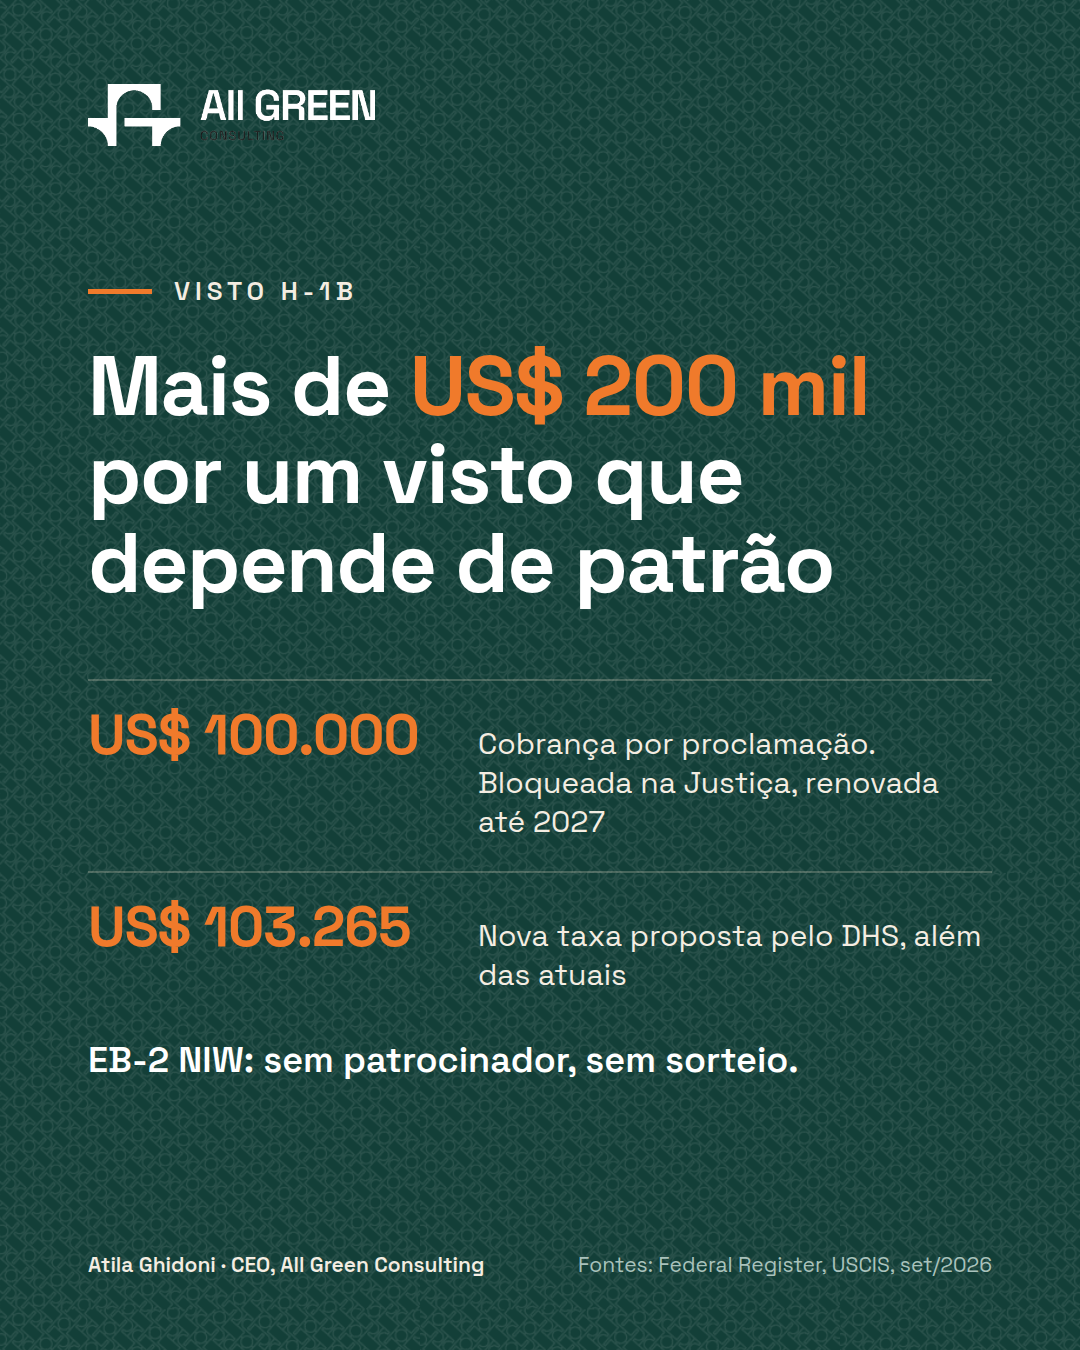
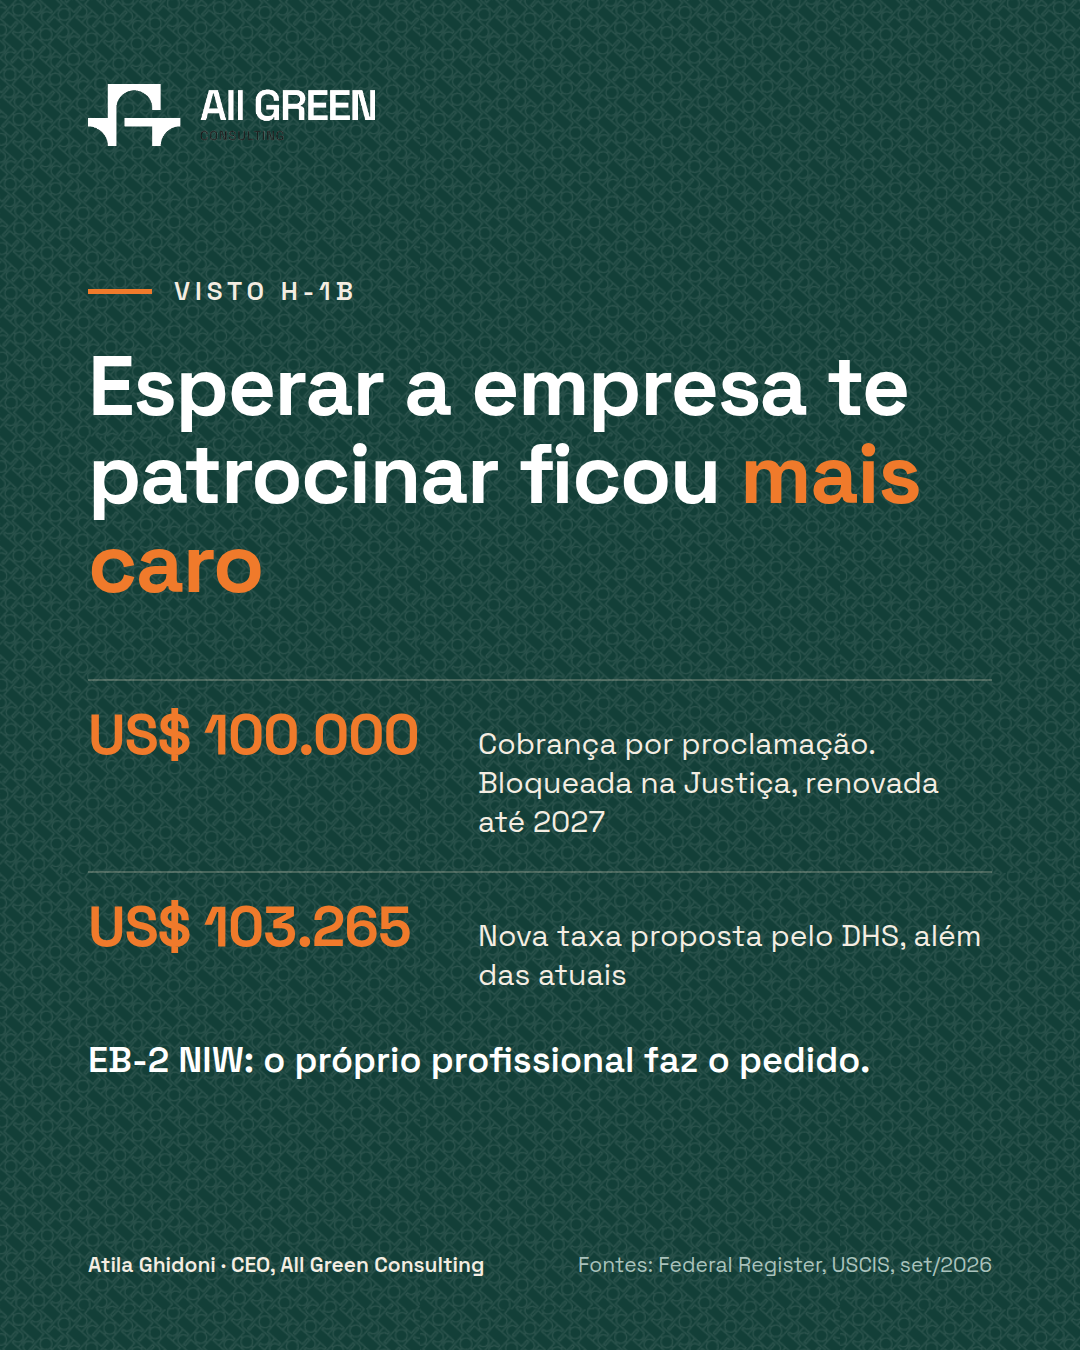
LinkedIn posts: rewrite for the ICP (highly qualified professionals)
Claude-Session: https://claude.ai/code/session_01Ck1BZsVtVxt2ckBAWugUjM

Changed region(s): [[0.0611, 0.2489, 0.8556, 0.4667], [0.2444, 0.7778, 0.7944, 0.8089]]

diff --git a/linkedin/26-09-21/Atila-LinkedIn-26-09-21.md b/linkedin/26-09-21/Atila-LinkedIn-26-09-21.md
@@ -2,12 +2,24 @@
 
 3 posts para o perfil do Atila Ghidoni, CEO da All Green Consulting, baseados nas notícias da semana (mesmas fontes da newsletter). Texto pronto para revisar e publicar.
 
+## Para quem escrevemos (ICP)
+
+Profissionais brasileiros de alta qualificação: engenheiros, médicos e profissionais de saúde, pesquisadores, especialistas em tecnologia, agrônomos e executivos, com pós-graduação ou carreira longa e resultados mensuráveis. Gente que já é referência no Brasil, avalia uma carreira nos EUA e decide com dado, não com promessa.
+
+O que eles pensam e os posts respondem:
+- "Será que o meu perfil é suficiente?"
+- "Não quero depender de uma empresa me patrocinar."
+- "Não posso perder anos de carreira esperando."
+- "Quero entender a regra antes de investir."
+
+Por isso os posts falam de critério, risco e decisão, citam profissões pelo nome e evitam tom de promessa ou de venda.
+
 ## Como foram pensados (State of LinkedIn Brasil 2026)
 
 - **Post de executivo, não de página.** Em 6 de 7 mercados analisados, o post do executivo alcança mais decisores que o da página da empresa.
-- **Texto + imagem.** Imagem é o formato que mais atrai decisores (5,6 por post). "Artigo ou link externo" fica bem atrás. Por isso são posts longos com uma imagem cada (em `post-1.png`, `post-2.png`, `post-3.png`), não artigos com link.
-- **Poucos temas, sempre os mesmos.** O algoritmo agora distribui por tema (interest graph) e premia quem é fácil de classificar. Os 3 posts giram em torno de 2 temas: **a fila do green card** e **por que os EUA precisam de profissionais qualificados**.
-- **Feito para salvar e comentar.** Salvar, comentar e o tempo de leitura pesam mais que curtida. Cada post tem uma parte "salvável" (passos, lista) e termina com uma pergunta.
+- **Texto + imagem.** Imagem é o formato que mais atrai decisores (5,6 por post). "Artigo ou link externo" fica bem atrás. Por isso são posts longos com uma imagem cada (`post-1.png`, `post-2.png`, `post-3.png`).
+- **Poucos temas, sempre os mesmos.** O algoritmo distribui por tema e premia quem é fácil de classificar. Os 3 posts giram em torno de 2 temas: **a fila do green card** e **por que os EUA precisam de profissionais qualificados**.
+- **Feito para salvar e comentar.** Salvar, comentar e o tempo de leitura pesam mais que curtida. Cada post tem uma parte "salvável" e termina com uma pergunta para o ICP.
 - **IA no preparo, não na publicação.** O estudo mostra alcance menor para texto 100% gerado por IA. Atila deve ajustar com a voz dele antes de postar.
 - **Estilo de referência (Alfredo Soares, G4):** frase curta, uma ideia por linha, contraste ("não é X, é Y"), opinião clara e fechamento com provocação.
 
@@ -15,49 +27,45 @@ Sugestão de calendário: terça, quarta e quinta, um por dia. Links das fontes 
 
 ---
 
-## Post 1: A fila voltou
+## Post 1: Para quem tem carreira, fila é custo
 
 **Imagem:** post-1.png
 
+Se você tem pós-graduação ou uma carreira sólida e pensa em trabalhar nos EUA, esta semana mudou o seu cálculo.
+
 O EB-2 do Brasil voltou a ter fila.
 
-E eu vou te explicar por que isso não é motivo para pânico.
+O EB-2 é o green card para quem tem mestrado ou doutorado, ou graduação com pelo menos 5 anos de experiência progressiva, ou habilidade excepcional.
 
-Na terça (29/09), o Departamento de Estado americano publicou o Visa Bulletin de outubro.
+É a categoria de quem já é referência no que faz.
 
-Para brasileiros no EB-2, a categoria do green card por mérito profissional, a fila que não existia passou a existir.
-
-Os números:
+Na terça (29/09), o Departamento de Estado publicou o Visa Bulletin de outubro:
 
 → Data de corte para emitir o green card: 01/01/2025
 → Data de corte para protocolar o pedido: 15/03/2026
-→ Em outubro, para quem está nos EUA, o USCIS aceita o pedido pela segunda data
+→ Até setembro, o Brasil não tinha fila nenhuma
 
-Escritórios de imigração americanos classificaram a retrogressão no primeiro mês do ano fiscal de "extremamente incomum".
+Escritórios de imigração americanos classificaram a retrogressão no primeiro mês do ano fiscal como "extremamente incomum".
 
-Aqui vai a parte que quase ninguém explica:
+Para um profissional sênior, fila não é só espera.
+É custo.
 
-O que define o seu lugar na fila é a sua data de prioridade.
-É a data em que o seu pedido foi protocolado.
-E ela não se perde.
+Cada ano na fila é um ano de salário em dólar que não entrou.
+Um ano a mais longe da pesquisa, do projeto ou do cargo que você quer.
 
-Fila não fecha porta.
-Fila organiza quem chegou primeiro.
+E aqui está o ponto que separa quem decide bem de quem decide tarde:
 
-Por isso eu sempre digo:
-"sem fila" sempre foi uma foto, não uma promessa.
+o que define o seu lugar na fila é a data de prioridade.
+É a data em que o seu pedido é protocolado.
+Ela não se perde.
 
-Quem esperou "o momento certo" descobriu nesta semana que o momento certo era antes.
+Quem protocola hoje entra na fila hoje.
+Quem espera "a fila andar" entra depois de todo mundo que não esperou.
 
-Quem já protocolou, travou a data.
+Para quem tem o perfil, a pergunta deixou de ser "vale a pena?".
+Virou "quanto custa esperar mais um ano?".
 
-Três passos para quem está pensando no EB-2 NIW agora:
-
-1. Descubra se o seu perfil é elegível antes de pensar em prazo.
-2. Monte o caso com calma, mas não deixe o protocolo para "quando as coisas melhorarem".
-3. Acompanhe o boletim todo mês. Ele muda, e muda sem aviso.
-
-Você já sabia que existe uma data de prioridade?
+Quanto vale um ano da sua carreira?
 
 ---
 
@@ -65,55 +73,55 @@ Você já sabia que existe uma data de prioridade?
 
 ---
 
-## Post 2: Mais de US$ 200 mil por um visto
+## Post 2: Esperar a empresa te levar ficou mais caro
 
 **Imagem:** post-2.png
 
-Os EUA não fecharam a porta para o profissional estrangeiro.
+Muito profissional brasileiro qualificado tem o mesmo plano para ir aos EUA:
 
-Fecharam a porta que depende de patrão.
+"Vou esperar uma empresa me contratar e patrocinar o visto."
 
-Olha o que aconteceu com o H-1B, o visto de trabalho patrocinado por empresa:
+Esse plano ficou mais caro. Muito mais caro.
 
-→ Por proclamação presidencial, o governo criou uma cobrança de US$ 100 mil por visto. A Justiça bloqueou.
+Para a empresa.
+
+O H-1B, o visto de trabalho patrocinado pelo empregador, virou alvo do governo americano:
+
+→ Por proclamação presidencial, foi criada uma cobrança de US$ 100 mil por visto. A Justiça bloqueou.
 → Em 18/09, a Casa Branca renovou a proclamação até setembro de 2027.
-→ Em paralelo, o DHS propôs uma taxa de US$ 103.265 por petição, além de todas as outras. O prazo de comentários terminou em 24/09.
+→ O DHS propôs mais uma taxa: US$ 103.265 por petição, além de todas as outras. O prazo de comentários terminou em 24/09.
 
-Se as duas valerem, são mais de US$ 200 mil por profissional, pagos pela empresa.
+Se as duas valerem, são mais de US$ 200 mil por profissional.
 
 Hospitais americanos pediram isenção para a saúde. Até agora, não conseguiram.
 
-Agora pensa como dono de empresa.
+Agora se coloca no lugar do diretor que aprova a contratação.
 
-Você pagaria US$ 200 mil para contratar alguém que pode perder o sorteio do visto?
+Ele paga US$ 200 mil a mais, e ainda corre o risco de você perder o sorteio do visto.
 
-Pois é.
+Quantos profissionais ele vai patrocinar por ano?
 
-O recado de Washington é claro: menos volume, mais qualificação.
+Poucos. E vai escolher a dedo.
 
-E é aqui que muita gente se confunde.
+Enquanto isso, existe um caminho em que o próprio profissional faz o pedido.
 
-O caminho que encareceu é o que depende de um empregador.
-O caminho do mérito continua aberto.
+O EB-2 NIW.
+Sem empregador.
+Sem sorteio.
+Sem a taxa do H-1B.
 
-No EB-2 NIW, o próprio profissional faz o pedido.
-Não tem patrocinador.
-Não tem sorteio.
-Não tem taxa de US$ 100 mil.
-
-O que tem é exigência.
+Não é mais fácil.
 Você precisa provar que o seu trabalho tem mérito e importância nacional para os EUA.
 
-Não é o caminho mais fácil.
-É o caminho que não depende da boa vontade de ninguém.
+Mas é um caminho que depende do seu histórico, não da agenda de contratação de uma empresa.
 
-Se você é engenheiro, médico, pesquisador ou especialista em tecnologia e estava esperando uma vaga lá fora para "ganhar o visto junto":
+Para engenheiro, médico, pesquisador e especialista em tecnologia, a ordem pode se inverter:
 
-talvez seja hora de inverter a ordem.
+primeiro o green card, depois a vaga.
 
-Primeiro o green card. Depois a vaga.
+E com green card, você negocia a vaga de outro lugar.
 
-Concorda ou discorda?
+Você esperaria uma empresa te patrocinar ou tomaria a frente do processo?
 
 ---
 
@@ -123,56 +131,48 @@ Concorda ou discorda?
 
 ---
 
-## Post 3: Falta gente nos EUA. Mas não qualquer gente.
+## Post 3: Seu currículo não é o argumento
 
 **Imagem:** post-3.png
 
-"Os EUA estão fechando as portas para imigrantes."
-
-A gente ouve essa frase o tempo todo.
-
-E as notícias dizem outra coisa.
-
-Só nesta semana:
-
-→ Engenharia: as fábricas de chips americanas podem ter falta de 127 a 157 mil trabalhadores até 2030. Só 3% dos formados em engenharia vão para essa indústria.
-→ Saúde: imigrantes são 30% dos profissionais de cuidado direto. Asilos estão fechando alas por falta de gente.
-→ Agronomia: a partir de hoje (01/10), Arizona, Califórnia e Nevada passam a ter cortes na água do Rio Colorado. Produzir mais com menos água é problema de agrônomo.
-→ Economia: o Beige Book do Fed descreve profissionais de ofícios qualificados como "difíceis de encontrar".
-
-Percebe o padrão?
-
-Os EUA não precisam de mais gente.
-Precisam de gente específica.
-
-Engenheiro.
-Médico e enfermeiro.
-Agrônomo.
-Especialista em tecnologia e cibersegurança.
-
-É exatamente o perfil que o EB-2 NIW foi feito para receber.
-
-O erro que eu mais vejo em profissional brasileiro qualificado:
+O erro mais comum de profissional brasileiro de alto nível que quer o green card:
 
 achar que o currículo fala por si.
 
 Não fala.
 
-Para o governo americano, não basta você ser bom.
-Você precisa mostrar que o seu trabalho resolve um problema que os EUA têm.
+O governo americano não pergunta se você é bom.
+Pergunta se o seu trabalho resolve um problema que os EUA têm.
 
-E os EUA estão dizendo, em público, quais problemas são esses.
+E nesta semana, os próprios EUA disseram quais são alguns desses problemas:
 
-A pergunta não é "os EUA estão abertos?".
+→ Engenharia: as fábricas de chips podem ter falta de 127 a 157 mil trabalhadores até 2030.
+→ Saúde: imigrantes são 30% dos profissionais de cuidado direto. Asilos estão fechando alas por falta de gente.
+→ Agronomia: a partir de hoje (01/10), Arizona, Califórnia e Nevada passam a ter cortes na água do Rio Colorado.
+→ Economia: o Fed descreve profissionais de ofícios qualificados como "difíceis de encontrar".
 
-A pergunta é: "o meu trabalho resolve qual problema deles?"
+Se você é engenheiro de semicondutores ou de energia, médico, enfermeiro, agrônomo que trabalha com irrigação ou especialista em cibersegurança:
 
-Se você souber responder isso, você já está na frente de muita gente.
+o problema já está nos jornais americanos.
+Falta você mostrar que é parte da solução.
 
-Qual é a área que você acha que mais vai faltar profissional nos EUA nos próximos anos?
+No EB-2 NIW, o oficial de imigração faz três perguntas. Salva este post:
+
+1. O seu trabalho tem mérito e importância nacional para os EUA?
+2. Você está bem posicionado para levar esse trabalho adiante?
+3. Faz sentido para os EUA dispensar a exigência de uma oferta de emprego no seu caso?
+
+Repara que nenhuma delas é "quantos anos de experiência você tem?".
+
+Experiência é prova.
+Não é o argumento.
+
+O argumento é o problema que você resolve.
+
+Que problema dos EUA o seu trabalho resolve?
 
 ---
 
-**Primeiro comentário (fontes):** Chips: techtimes.com/articles/327782/20260920/us-chip-fabs-face-157000-worker-shortfall-ai-labs-drain-same-talent-pool.htm · Cuidadores: wisconsinwatch.org/2026/09/wisconsin-caregiver-shortage-federal-immigration-policy-home-health-nursing-workers/ · Rio Colorado: kunc.org/regional-news/2026-08-24/colorado-is-spared-from-mandatory-cuts-as-feds-finalize-colorado-river-rules-for-next-two-years · Beige Book: minneapolisfed.org/beige-book-reports/2026/2026-09-su
+**Primeiro comentário (fontes):** Chips: techtimes.com/articles/327782/20260920/us-chip-fabs-face-157000-worker-shortfall-ai-labs-drain-same-talent-pool.htm · Cuidadores: wisconsinwatch.org/2026/09/wisconsin-caregiver-shortage-federal-immigration-policy-home-health-nursing-workers/ · Rio Colorado: kunc.org/regional-news/2026-08-24/colorado-is-spared-from-mandatory-cuts-as-feds-finalize-colorado-river-rules-for-next-two-years · Beige Book: minneapolisfed.org/beige-book-reports/2026/2026-09-su · Critérios do NIW (Matter of Dhanasar): uscis.gov/policy-manual/volume-6-part-f-chapter-5
 
 **Ajuste de data:** o Post 3 fala "a partir de hoje (01/10)". Se for publicado em outro dia, troque por "desde 01/10".

diff --git a/linkedin/Prompt-LinkedIn-Semanal.md b/linkedin/Prompt-LinkedIn-Semanal.md
@@ -8,6 +8,11 @@ SAÍDA
 - linkedin/AA-MM-DD/Atila-LinkedIn-AA-MM-DD.md (mesma estrutura da edição anterior: nota "Como foram pensados", depois Post 1, 2 e 3, cada um com imagem, texto, primeiro comentário com as fontes e avisos antes de postar).
 - linkedin/AA-MM-DD/imagens.json e as imagens: node linkedin/imagens.mjs linkedin/AA-MM-DD/imagens.json (1080 × 1350 px, uma por post).
 
+ICP (PARA QUEM ESCREVER)
+- Profissionais brasileiros de alta qualificação: engenheiros, médicos e profissionais de saúde, pesquisadores, especialistas em tecnologia, agrônomos e executivos, com pós-graduação ou carreira longa e resultados mensuráveis.
+- Responda às dúvidas deles: "meu perfil é suficiente?", "não quero depender de empresa me patrocinar", "não posso perder anos de carreira", "quero entender a regra antes de investir".
+- Fale de critério, risco, custo de esperar e decisão. Cite profissões pelo nome. Nada de tom de promessa, urgência falsa ou venda.
+
 REGRAS (State of LinkedIn Brasil 2026)
 - Post de executivo, em primeira pessoa, com opinião clara. Texto longo + uma imagem; não use artigo com link.
 - Sempre os mesmos 2 temas: a fila do green card (Visa Bulletin, data de prioridade, regras) e por que os EUA precisam de profissionais qualificados (engenharia, agronomia, saúde, tecnologia). Pode entrar câmbio/planejamento quando houver notícia.
